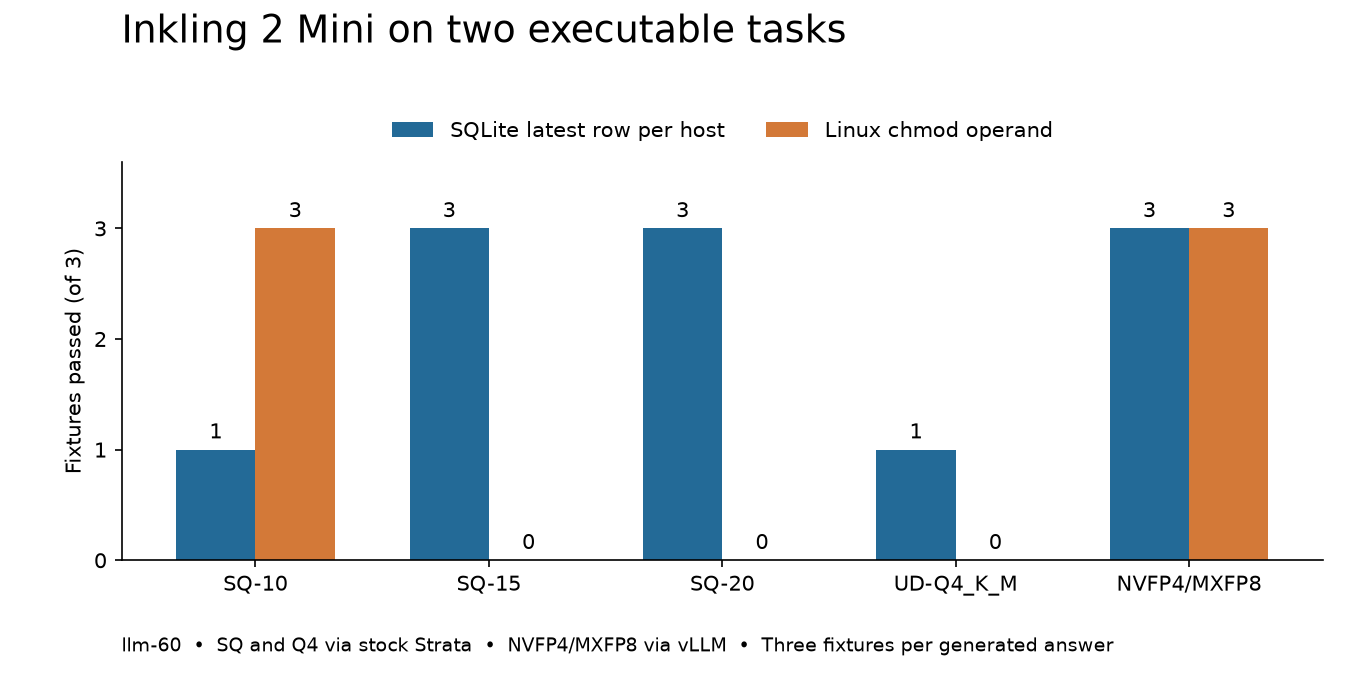
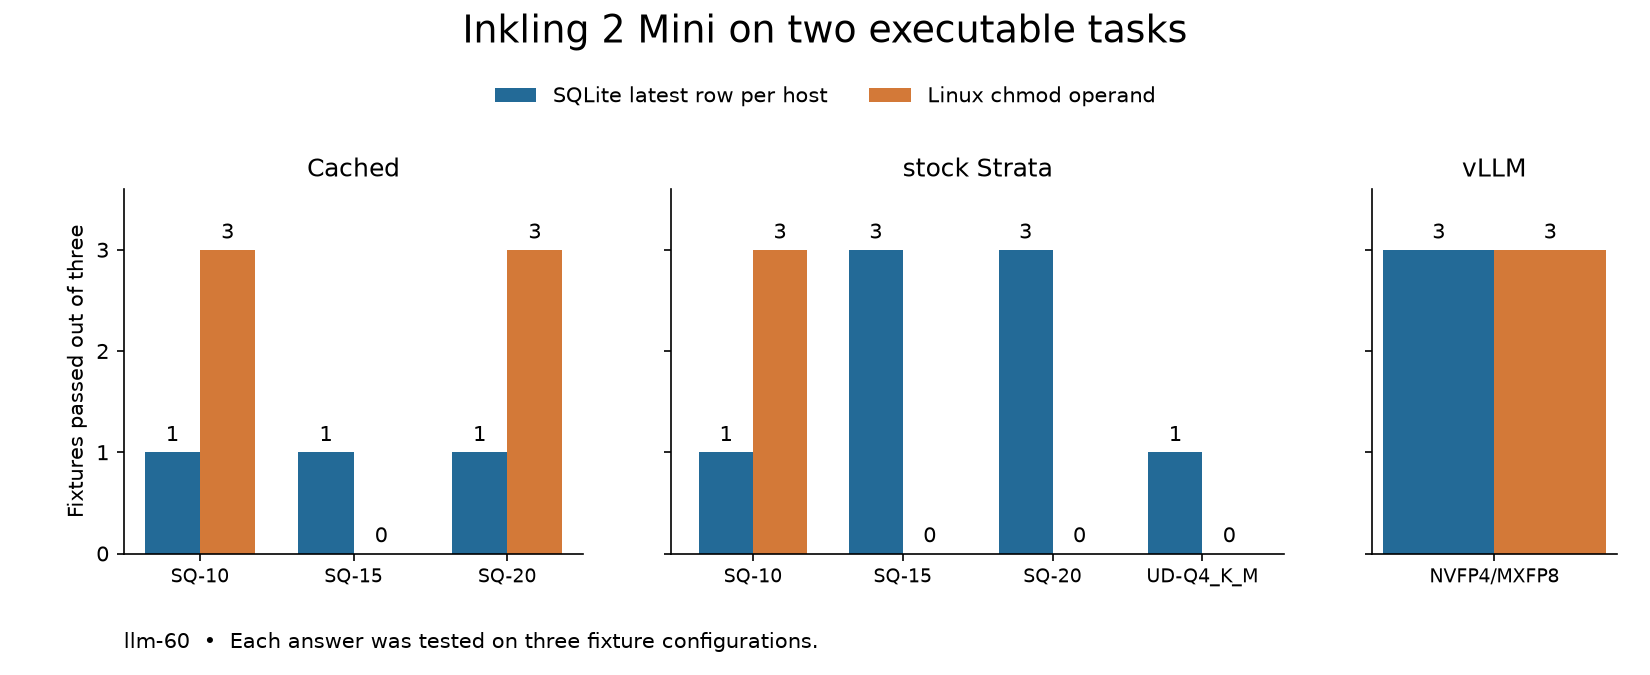
Compare Cached and stock executable fixture scores by weight pack

diff --git a/docs/benchmarks/inkling/plot_executable_quant.py b/docs/benchmarks/inkling/plot_executable_quant.py
@@ -1,0 +1,35 @@
+"""Regenerate the llm-60 executable task comparison from the published scores."""
+import csv
+from pathlib import Path
+
+import matplotlib.pyplot as plt
+
+directory = Path(__file__).resolve().parent
+with (directory / "executable-quant-pilot.csv").open() as source:
+    rows = list(csv.DictReader(source))
+
+fig, axes = plt.subplots(1, 3, figsize=(11, 4.5), sharey=True,
+                         gridspec_kw={"width_ratios": [3, 4, 1.6]})
+for ax, runtime in zip(axes, ["Cached", "stock Strata", "vLLM"]):
+    scores = {(r["pack"], r["task"]): int(r["fixtures_passed"])
+              for r in rows if r["runtime"] == runtime}
+    packs = list(dict.fromkeys(pack for pack, task in scores))
+    for task, label, offset, color in [
+        ("latest", "SQLite latest row per host", -.18, "#236a97"),
+        ("permissions", "Linux chmod operand", .18, "#d37938"),
+    ]:
+        bars = ax.bar([i + offset for i in range(len(packs))],
+                      [scores[pack, task] for pack in packs], .36, color=color, label=label)
+        ax.bar_label(bars, padding=3)
+    ax.set_title(runtime)
+    ax.set_xticks(range(len(packs)), packs, fontsize=9)
+    ax.set_ylim(0, 3.6)
+    ax.set_yticks(range(4))
+    ax.spines[["top", "right"]].set_visible(False)
+axes[0].set_ylabel("Fixtures passed out of three")
+fig.suptitle("Inkling 2 Mini on two executable tasks", fontsize=18)
+fig.legend(*axes[0].get_legend_handles_labels(), loc="upper center",
+           bbox_to_anchor=(.5, .90), ncol=2, frameon=False)
+fig.text(.075, .04, "llm-60  •  Each answer was tested on three fixture configurations.")
+fig.subplots_adjust(top=.72, bottom=.18, left=.075, right=.98, wspace=.20)
+fig.savefig(directory / "executable-quant-pilot.png", dpi=150)
